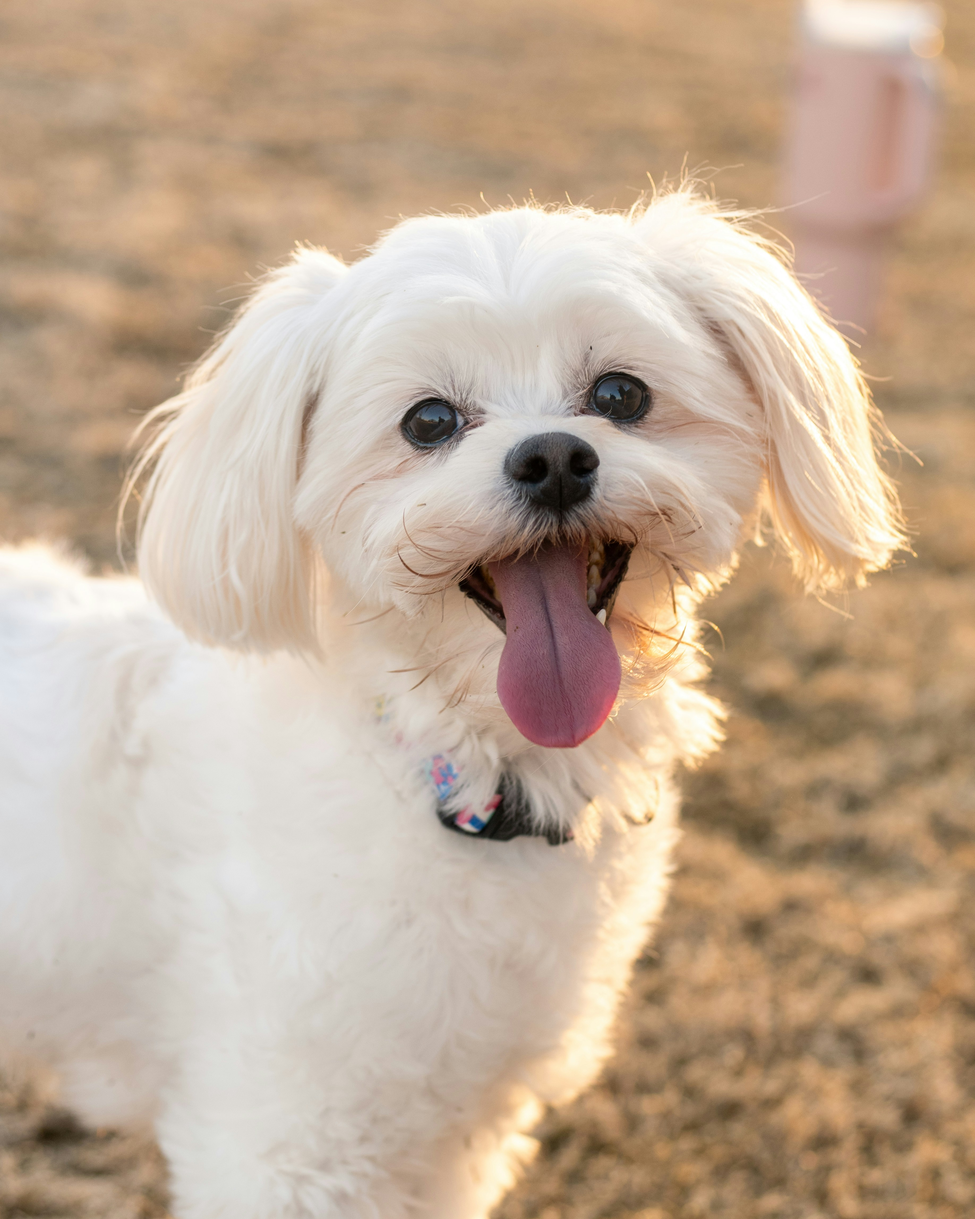
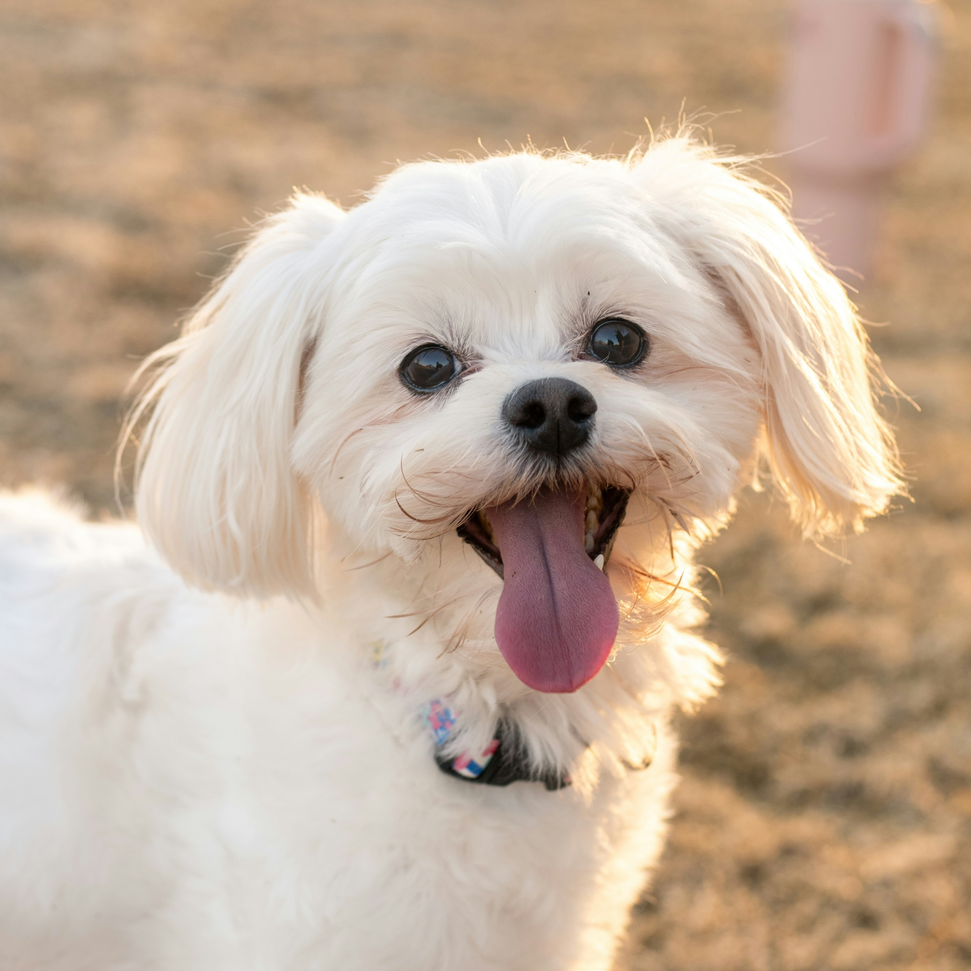
Updates to image ratios and removal of modal close button as click outside card will still close the view

diff --git a/styles.css b/styles.css
@@ -226,7 +226,7 @@ body::before {
 
 .card-image-wrapper {
     position: relative;
-    aspect-ratio: 3/4;
+    aspect-ratio: 1/1;
     overflow: hidden;
 }
 
@@ -290,7 +290,7 @@ body::before {
 
 .modal-content {
     position: relative;
-    max-width: 600px;
+    max-width: 450px;
     width: 90%;
     max-height: 95vh;
     z-index: 1001;
@@ -306,28 +306,9 @@ body::before {
 }
 
 .modal-close {
-    position: absolute;
-    top: -50px;
-    right: 0;
-    background: rgba(255, 255, 255, 0.1);
-    border: 2px solid rgba(255, 255, 255, 0.3);
-    color: white;
-    width: 45px;
-    height: 45px;
-    border-radius: 50%;
-    cursor: pointer;
-    display: flex;
-    align-items: center;
-    justify-content: center;
-    font-size: 1.5rem;
-    transition: all 0.3s ease;
-    backdrop-filter: blur(10px);
+    display: none;
 }
 
-.modal-close:hover {
-    background: rgba(255, 255, 255, 0.2);
-    transform: rotate(90deg);
-}
 
 /* Battle Card */
 .battle-card {
@@ -395,7 +376,7 @@ body::before {
 
 .card-image-container {
     position: relative;
-    aspect-ratio: 4/3;
+    aspect-ratio: 6/5;
     border-radius: 20px;
     overflow: hidden;
     margin-bottom: 1.5rem;

diff --git a/index.php b/index.php
@@ -172,7 +172,7 @@ $pets = getPetImages($imagesFolder);
         <div class="modal-backdrop"></div>
         <div class="modal-content">
             <button class="modal-close" id="modalClose">
-                <span class="close-icon">✕</span>
+                <span class="close-icon"></span>
             </button>
             
             <div class="battle-card">
